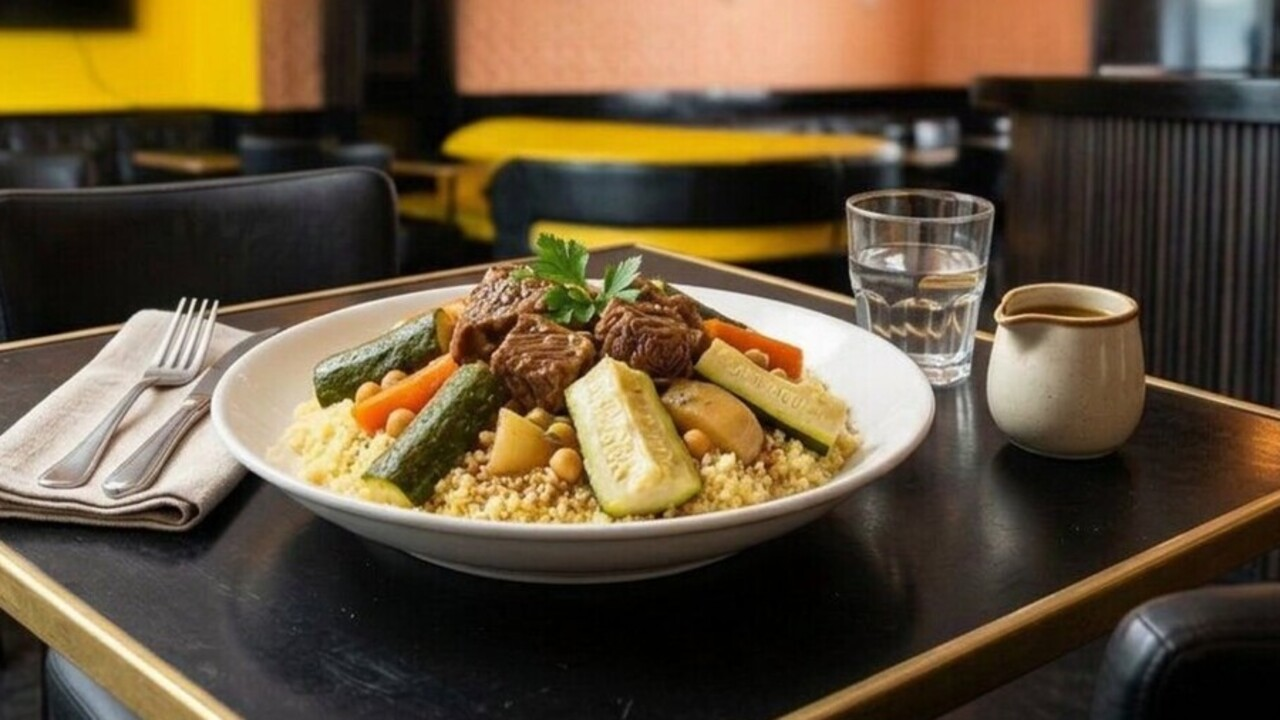
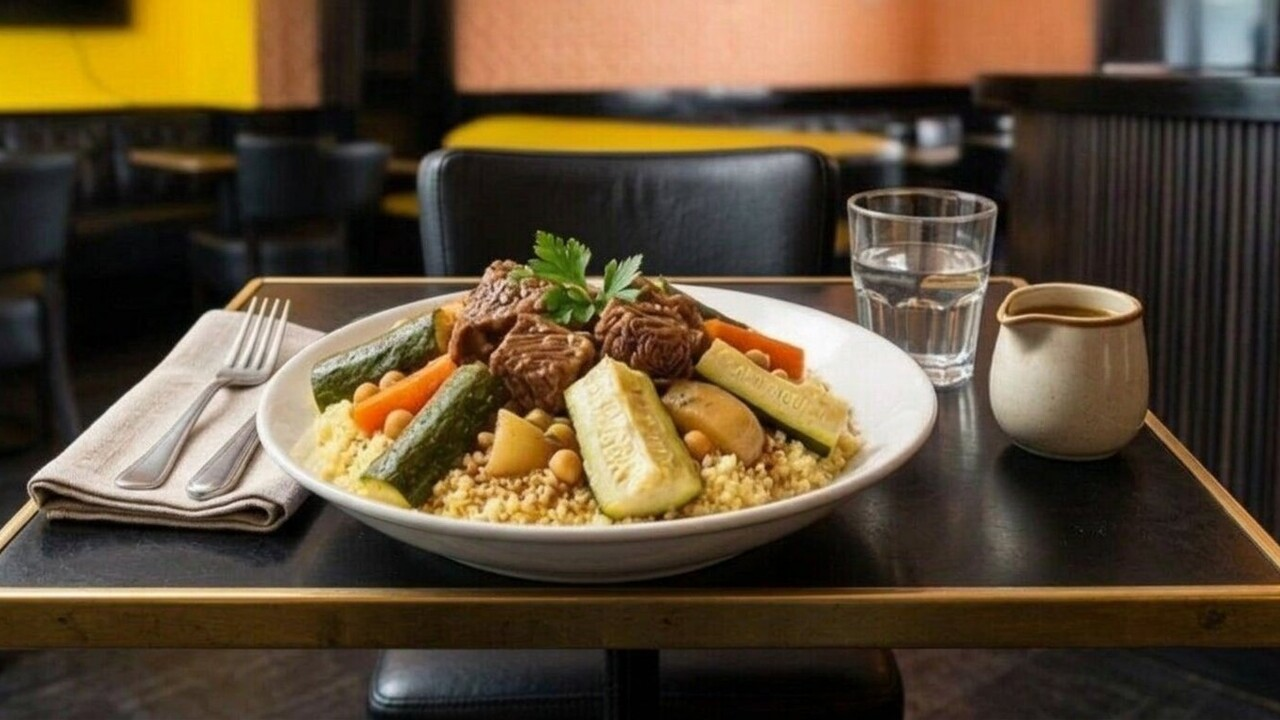
Couscous : petites tables pour deux et gros plans sur une seule assiette

diff --git a/index.html b/index.html
@@ -11354,7 +11354,7 @@ html:not(.carte-doc) .lightbox--food-wide .lightbox__img {
     </div>
     <div class="container">
       <section id="entrees" class="menu-section active"><div class="tab-flow"><article class="panel"><div class="panel__head"><h4 class="panel__title">Entrées</h4></div><div class="food-card-grid food-card-grid--wide"><article class="food-card menu-card-grid__item" data-photo="assets/plats/assiette-de-foie-gras-du-sud-ouest.jpg"><div class="food-card__head"><div class="food-card__lead"><h5>Assiette de foie gras du Sud-Ouest</h5><span class="food-card__note">Pain toasté, confiture d’abricots</span></div><strong>17,90</strong></div></article><article class="food-card menu-card-grid__item" data-photo="assets/plats/oeuf-dur-mayonnaise.jpg"><div class="food-card__head"><div class="food-card__lead"><h5>Œuf dur mayonnaise</h5></div><strong>6,20</strong></div></article><article class="food-card menu-card-grid__item" data-photo="assets/plats/6-escargots-au-roquefort.jpg"><div class="food-card__head"><div class="food-card__lead"><h5>6 Escargots au Roquefort</h5></div><strong>7,90</strong></div></article><article class="food-card menu-card-grid__item" data-photo="assets/plats/assiette-de-saumon-fume.jpg"><div class="food-card__head"><div class="food-card__lead"><h5>Assiette de saumon fumé</h5></div><strong>7,50</strong></div></article><article class="food-card menu-card-grid__item" data-photo="assets/plats/tartare-d-avocat-et-crevettes.jpg"><div class="food-card__head"><div class="food-card__lead"><h5>Tartare d’avocat et crevettes</h5></div><strong>7,90</strong></div></article><article class="food-card menu-card-grid__item" data-photo="assets/plats/oeuf-cocotte-du-moment.jpg"><div class="food-card__head"><div class="food-card__lead"><h5>Œuf cocotte du moment</h5></div><strong>7,90</strong></div></article></div></article><article class="panel"><div class="panel__head"><h4 class="panel__title">Planches &amp; croques</h4></div><div class="food-card-grid food-card-grid--wide"><article class="food-card menu-card-grid__item" data-photo="assets/plats/la-cochonnaille.jpg"><div class="food-card__head"><div class="food-card__lead"><h5>La Cochonnaille</h5></div><strong>17,50</strong></div></article><article class="food-card menu-card-grid__item" data-photo="assets/plats/la-fromagere.jpg"><div class="food-card__head"><div class="food-card__lead"><h5>La Fromagère</h5></div><strong>15,90</strong></div></article><article class="food-card menu-card-grid__item" data-photo="assets/plats/la-paysanne.jpg"><div class="food-card__head"><div class="food-card__lead"><h5>La Paysanne</h5><span class="food-card__note">Cochonnaille et fromagère</span></div><strong>19,90</strong></div></article><article class="food-card menu-card-grid__item" data-photo="assets/plats/croque-monsieur.jpg"><div class="food-card__head"><div class="food-card__lead"><h5>Croque-Monsieur</h5><span class="food-card__note">Sandwich grillé jambon-fromage, sauce béchamel</span><span class="food-card__note">Frites et salade</span></div><strong>11,70</strong></div></article><article class="food-card menu-card-grid__item" data-photo="assets/plats/croque-madame.jpg"><div class="food-card__head"><div class="food-card__lead"><h5>Croque-Madame</h5><span class="food-card__note">Sandwich grillé jambon-fromage, sauce béchamel, œuf au plat</span><span class="food-card__note">Frites et salade</span></div><strong>12,70</strong></div></article></div></article><article class="panel"><div class="panel__head"><h4 class="panel__title">Omelettes</h4></div><div class="food-card-grid food-card-grid--wide"><article class="food-card menu-card-grid__item" data-photo="assets/plats/oeufs-au-plat.jpg"><div class="food-card__head"><div class="food-card__lead"><h5>Œufs au plat</h5><span class="food-card__note">Salade</span></div><strong>9,90</strong></div></article><article class="food-card menu-card-grid__item" data-photo="assets/plats/omelette-nature.jpg"><div class="food-card__head"><div class="food-card__lead"><h5>Omelette nature</h5><span class="food-card__note">Salade</span></div><strong>9,90</strong></div></article><article class="food-card menu-card-grid__item" data-photo="assets/plats/omelette-au-fromage.jpg"><div class="food-card__head"><div class="food-card__lead"><h5>Omelette au fromage</h5><span class="food-card__note">Salade</span></div><strong>10,90</strong></div></article><article class="food-card menu-card-grid__item" data-photo="assets/plats/omelette-au-jambon.jpg"><div class="food-card__head"><div class="food-card__lead"><h5>Omelette au jambon</h5><span class="food-card__note">Salade</span></div><strong>10,90</strong></div></article><article class="food-card menu-card-grid__item" data-photo="assets/plats/omelette-mixte.jpg"><div class="food-card__head"><div class="food-card__lead"><h5>Omelette mixte</h5><span class="food-card__note">Salade</span></div><strong>13,90</strong></div></article><article class="food-card menu-card-grid__item" data-photo="assets/plats/omelette-aux-champignons.jpg"><div class="food-card__head"><div class="food-card__lead"><h5>Omelette aux champignons</h5><span class="food-card__note">Salade</span></div><strong>13,70</strong></div></article></div></article></div></section>
-<section id="plats" class="menu-section"><div class="tab-flow"><article class="panel"><div class="panel__head"><h4 class="panel__title">Plats</h4></div><div class="food-card-grid food-card-grid--wide"><article class="food-card menu-card-grid__item" data-photo="assets/plats/entrecote-190-g.jpg?v=20261024-originaux-restaures"><div class="food-card__head"><div class="food-card__lead"><h5>Entrecôte 190 g</h5><p class="food-card__note">Fleur de sel, sauce au choix</p></div><strong>19,90</strong></div></article><article class="food-card menu-card-grid__item" data-photo="assets/plats/bavette-d-aloyau.jpg?v=20261024-originaux-restaures"><div class="food-card__head"><div class="food-card__lead"><h5>Bavette d’aloyau</h5><p class="food-card__note">Sauce au choix</p></div><strong>17,50</strong></div></article><article class="food-card menu-card-grid__item" data-photo="assets/plats/escalope-de-veau.jpg?v=20261024-originaux-restaures"><div class="food-card__head"><div class="food-card__lead"><h5>Escalope de veau</h5><p class="food-card__note">Sauce champignons, pâtes</p></div><strong>19,90</strong></div></article><article class="food-card menu-card-grid__item" data-photo="assets/plats/cuisse-de-canard-confite.jpg?v=20261024-originaux-restaures"><div class="food-card__head"><div class="food-card__lead"><h5>Cuisse de canard confite</h5></div><strong>19,70</strong></div></article><article class="food-card menu-card-grid__item" data-photo="assets/plats/poisson.jpg?v=20261024-originaux-restaures"><div class="food-card__head"><div class="food-card__lead"><h5>Poisson</h5><p class="food-card__note">Selon l'arrivage</p></div><strong>17,90</strong></div></article><article class="food-card menu-card-grid__item" data-photo="assets/plats/tartare-de-boeuf.jpg?v=20261024-originaux-restaures"><div class="food-card__head"><div class="food-card__lead"><h5>Tartare de bœuf</h5></div><strong>17,80</strong></div></article><article class="food-card menu-card-grid__item" data-photo="assets/plats/cuisse-de-poulet-rotie.jpg?v=20261024-originaux-restaures"><div class="food-card__head"><div class="food-card__lead"><h5>Cuisse de poulet rôtie</h5><p class="food-card__note">Riz basmati</p></div><strong>15,20</strong></div></article></div></article><article class="panel"><div class="panel__head"><h4 class="panel__title">Burgers</h4></div><div class="food-card-grid"><article class="food-card menu-card-grid__item" data-photo="assets/plats/burger-la-colline.jpg?v=20261024-originaux-restaures"><div class="food-card__head"><div class="food-card__lead"><h5>Burger La Colline</h5><p class="food-card__note">Pain brioché, cheddar, steak haché, bacon, oignons caramélisés, salade, tomate, sauce burger.</p></div><strong>17,90</strong></div></article><article class="food-card menu-card-grid__item" data-photo="assets/plats/le-royal-fishburger.jpg?v=20261024-originaux-restaures"><div class="food-card__head"><div class="food-card__lead"><h5>Le Royal Fishburger</h5><p class="food-card__note">Pain brioché, cheddar, poisson pané, légumes grillés, salade, tomate, sauce burger.</p></div><strong>17,70</strong></div></article><article class="food-card menu-card-grid__item" data-photo="assets/plats/burger-chicken-croustillant.jpg?v=20261024-originaux-restaures"><div class="food-card__head"><div class="food-card__lead"><h5>Burger Chicken Croustillant</h5><p class="food-card__note">Pain brioché, cheddar, escalope de poulet pané croustillant, oignons caramélisés, salade, tomate, sauce burger.</p></div><strong>17,90</strong></div></article><article class="food-card menu-card-grid__item" data-photo="assets/plats/burger-vegetarien.jpg?v=20261024-originaux-restaures"><div class="food-card__head"><div class="food-card__lead"><h5>Burger Végétarien</h5><p class="food-card__note">Pain brioché, cheddar, steak végétarien, légumes grillés, salade, tomate, sauce burger.</p></div><strong>17,70</strong></div></article></div></article><article class="panel"><div class="panel__head"><h4 class="panel__title">Salades</h4></div><div class="food-card-grid"><article class="food-card menu-card-grid__item" data-photo="assets/plats/la-colline.jpg?v=20261024-originaux-restaures"><div class="food-card__head"><div class="food-card__lead"><h5>La Colline</h5><p class="food-card__note">Salade verte, tomate, escalope de poulet pané, œuf mimosa, croûton, toast de chèvre.</p></div><strong>16,90</strong></div></article><article class="food-card menu-card-grid__item" data-photo="assets/plats/chevre-chaud.jpg?v=20261024-originaux-restaures"><div class="food-card__head"><div class="food-card__lead"><h5>Chèvre Chaud</h5><p class="food-card__note">Salade verte, tomate, jambon sec, toast de cabécou, noix, miel.</p></div><strong>16,50</strong></div></article><article class="food-card menu-card-grid__item" data-photo="assets/plats/vegetarienne.jpg?v=20261024-originaux-restaures"><div class="food-card__head"><div class="food-card__lead"><h5>Végétarienne</h5><p class="food-card__note">Salade verte, tomate, concombre, haricots verts, légumes grillés, avocat.</p></div><strong>12,60</strong></div></article><article class="food-card menu-card-grid__item" data-photo="assets/plats/nordique.jpg?v=20261024-originaux-restaures"><div class="food-card__head"><div class="food-card__lead"><h5>Nordique</h5><p class="food-card__note">Salade verte, saumon fumé, crevettes, avocat, concombre, tomate, feta, croûtons.</p></div><strong>17,20</strong></div></article></div></article><article class="panel"><div class="panel__head"><h4 class="panel__title">Pâtes</h4></div><div class="food-card-grid"><article class="food-card menu-card-grid__item" data-photo="assets/plats/tagliatelles-a-la-carbonara.jpg?v=20261024-originaux-restaures"><div class="food-card__head"><div class="food-card__lead"><h5>Tagliatelles à la carbonara</h5></div><strong>15,90</strong></div></article><article class="food-card menu-card-grid__item" data-photo="assets/plats/tagliatelles-au-saumon.jpg?v=20261024-saumon-morceaux"><div class="food-card__head"><div class="food-card__lead"><h5>Tagliatelles au saumon</h5></div><strong>16,20</strong></div></article><article class="food-card menu-card-grid__item" data-photo="assets/plats/penne-au-poulet-et-champignons.jpg?v=20261024-originaux-restaures"><div class="food-card__head"><div class="food-card__lead"><h5>Penne au poulet et champignons</h5></div><strong>16,50</strong></div></article></div></article><article class="panel panel--couscous"><div class="panel__head"><h4 class="panel__title">Couscous</h4><p class="panel__subtitle">À déguster chaque vendredi et samedi (midi et soir).</p></div><div class="food-card-grid"><article class="food-card menu-card-grid__item" data-photo="assets/plats/couscous-poulet.jpg?v=20261024-couscous-deux-zoom"><div class="food-card__head"><div class="food-card__lead"><h5>Poulet</h5><p class="food-card__note">Semoule fine, légumes mijotés et bouillon maison.</p></div><strong>15,60</strong></div></article><article class="food-card menu-card-grid__item" data-photo="assets/plats/couscous-merguez.jpg?v=20261024-couscous-deux-zoom"><div class="food-card__head"><div class="food-card__lead"><h5>Merguez</h5><p class="food-card__note">Semoule fine, légumes mijotés et bouillon maison.</p></div><strong>15,60</strong></div></article><article class="food-card menu-card-grid__item" data-photo="assets/plats/couscous-agneau.jpg?v=20261024-couscous-deux-zoom"><div class="food-card__head"><div class="food-card__lead"><h5>Brochette d’agneau</h5><p class="food-card__note">Semoule fine, légumes mijotés et bouillon maison.</p></div><strong>16,50</strong></div></article><article class="food-card menu-card-grid__item" data-photo="assets/plats/couscous-boeuf.jpg?v=20261024-couscous-deux-zoom"><div class="food-card__head"><div class="food-card__lead"><h5>Bœuf</h5><p class="food-card__note">Semoule fine, légumes mijotés et bouillon maison.</p></div><strong>16,50</strong></div></article><article class="food-card menu-card-grid__item" data-photo="assets/plats/couscous-vegetarien.jpg?v=20261024-couscous-deux-zoom"><div class="food-card__head"><div class="food-card__lead"><h5>Végétarien</h5><p class="food-card__note">Semoule fine, légumes mijotés et bouillon maison.</p></div><strong>13,50</strong></div></article><article class="food-card menu-card-grid__item" data-photo="assets/plats/couscous-trois-viandes.jpg?v=20261024-couscous-deux-zoom"><div class="food-card__head"><div class="food-card__lead"><h5>La Colline Royale</h5><p class="food-card__note">Poulet, agneau et bœuf. Semoule fine, légumes mijotés et bouillon maison.</p></div><strong>22,90</strong></div></article></div></article><article class="panel panel--accent"><div class="accent-band"><img class="accent-band__motif" src="assets/menus/motif-80a.png" alt="" aria-hidden="true" loading="lazy" width="80" height="80"><div class="accent-band__title"><strong>Assiette de frites</strong><span>4,90</span></div><p>Accompagnement : frites, haricots verts, pâtes</p><p class="accent-band__sauce">Sauce au choix : poivre · champignons · roquefort — supplément sauce 2,00</p></div></article></div></section>
+<section id="plats" class="menu-section"><div class="tab-flow"><article class="panel"><div class="panel__head"><h4 class="panel__title">Plats</h4></div><div class="food-card-grid food-card-grid--wide"><article class="food-card menu-card-grid__item" data-photo="assets/plats/entrecote-190-g.jpg?v=20261024-originaux-restaures"><div class="food-card__head"><div class="food-card__lead"><h5>Entrecôte 190 g</h5><p class="food-card__note">Fleur de sel, sauce au choix</p></div><strong>19,90</strong></div></article><article class="food-card menu-card-grid__item" data-photo="assets/plats/bavette-d-aloyau.jpg?v=20261024-originaux-restaures"><div class="food-card__head"><div class="food-card__lead"><h5>Bavette d’aloyau</h5><p class="food-card__note">Sauce au choix</p></div><strong>17,50</strong></div></article><article class="food-card menu-card-grid__item" data-photo="assets/plats/escalope-de-veau.jpg?v=20261024-originaux-restaures"><div class="food-card__head"><div class="food-card__lead"><h5>Escalope de veau</h5><p class="food-card__note">Sauce champignons, pâtes</p></div><strong>19,90</strong></div></article><article class="food-card menu-card-grid__item" data-photo="assets/plats/cuisse-de-canard-confite.jpg?v=20261024-originaux-restaures"><div class="food-card__head"><div class="food-card__lead"><h5>Cuisse de canard confite</h5></div><strong>19,70</strong></div></article><article class="food-card menu-card-grid__item" data-photo="assets/plats/poisson.jpg?v=20261024-originaux-restaures"><div class="food-card__head"><div class="food-card__lead"><h5>Poisson</h5><p class="food-card__note">Selon l'arrivage</p></div><strong>17,90</strong></div></article><article class="food-card menu-card-grid__item" data-photo="assets/plats/tartare-de-boeuf.jpg?v=20261024-originaux-restaures"><div class="food-card__head"><div class="food-card__lead"><h5>Tartare de bœuf</h5></div><strong>17,80</strong></div></article><article class="food-card menu-card-grid__item" data-photo="assets/plats/cuisse-de-poulet-rotie.jpg?v=20261024-originaux-restaures"><div class="food-card__head"><div class="food-card__lead"><h5>Cuisse de poulet rôtie</h5><p class="food-card__note">Riz basmati</p></div><strong>15,20</strong></div></article></div></article><article class="panel"><div class="panel__head"><h4 class="panel__title">Burgers</h4></div><div class="food-card-grid"><article class="food-card menu-card-grid__item" data-photo="assets/plats/burger-la-colline.jpg?v=20261024-originaux-restaures"><div class="food-card__head"><div class="food-card__lead"><h5>Burger La Colline</h5><p class="food-card__note">Pain brioché, cheddar, steak haché, bacon, oignons caramélisés, salade, tomate, sauce burger.</p></div><strong>17,90</strong></div></article><article class="food-card menu-card-grid__item" data-photo="assets/plats/le-royal-fishburger.jpg?v=20261024-originaux-restaures"><div class="food-card__head"><div class="food-card__lead"><h5>Le Royal Fishburger</h5><p class="food-card__note">Pain brioché, cheddar, poisson pané, légumes grillés, salade, tomate, sauce burger.</p></div><strong>17,70</strong></div></article><article class="food-card menu-card-grid__item" data-photo="assets/plats/burger-chicken-croustillant.jpg?v=20261024-originaux-restaures"><div class="food-card__head"><div class="food-card__lead"><h5>Burger Chicken Croustillant</h5><p class="food-card__note">Pain brioché, cheddar, escalope de poulet pané croustillant, oignons caramélisés, salade, tomate, sauce burger.</p></div><strong>17,90</strong></div></article><article class="food-card menu-card-grid__item" data-photo="assets/plats/burger-vegetarien.jpg?v=20261024-originaux-restaures"><div class="food-card__head"><div class="food-card__lead"><h5>Burger Végétarien</h5><p class="food-card__note">Pain brioché, cheddar, steak végétarien, légumes grillés, salade, tomate, sauce burger.</p></div><strong>17,70</strong></div></article></div></article><article class="panel"><div class="panel__head"><h4 class="panel__title">Salades</h4></div><div class="food-card-grid"><article class="food-card menu-card-grid__item" data-photo="assets/plats/la-colline.jpg?v=20261024-originaux-restaures"><div class="food-card__head"><div class="food-card__lead"><h5>La Colline</h5><p class="food-card__note">Salade verte, tomate, escalope de poulet pané, œuf mimosa, croûton, toast de chèvre.</p></div><strong>16,90</strong></div></article><article class="food-card menu-card-grid__item" data-photo="assets/plats/chevre-chaud.jpg?v=20261024-originaux-restaures"><div class="food-card__head"><div class="food-card__lead"><h5>Chèvre Chaud</h5><p class="food-card__note">Salade verte, tomate, jambon sec, toast de cabécou, noix, miel.</p></div><strong>16,50</strong></div></article><article class="food-card menu-card-grid__item" data-photo="assets/plats/vegetarienne.jpg?v=20261024-originaux-restaures"><div class="food-card__head"><div class="food-card__lead"><h5>Végétarienne</h5><p class="food-card__note">Salade verte, tomate, concombre, haricots verts, légumes grillés, avocat.</p></div><strong>12,60</strong></div></article><article class="food-card menu-card-grid__item" data-photo="assets/plats/nordique.jpg?v=20261024-originaux-restaures"><div class="food-card__head"><div class="food-card__lead"><h5>Nordique</h5><p class="food-card__note">Salade verte, saumon fumé, crevettes, avocat, concombre, tomate, feta, croûtons.</p></div><strong>17,20</strong></div></article></div></article><article class="panel"><div class="panel__head"><h4 class="panel__title">Pâtes</h4></div><div class="food-card-grid"><article class="food-card menu-card-grid__item" data-photo="assets/plats/tagliatelles-a-la-carbonara.jpg?v=20261024-originaux-restaures"><div class="food-card__head"><div class="food-card__lead"><h5>Tagliatelles à la carbonara</h5></div><strong>15,90</strong></div></article><article class="food-card menu-card-grid__item" data-photo="assets/plats/tagliatelles-au-saumon.jpg?v=20261024-saumon-morceaux"><div class="food-card__head"><div class="food-card__lead"><h5>Tagliatelles au saumon</h5></div><strong>16,20</strong></div></article><article class="food-card menu-card-grid__item" data-photo="assets/plats/penne-au-poulet-et-champignons.jpg?v=20261024-originaux-restaures"><div class="food-card__head"><div class="food-card__lead"><h5>Penne au poulet et champignons</h5></div><strong>16,50</strong></div></article></div></article><article class="panel panel--couscous"><div class="panel__head"><h4 class="panel__title">Couscous</h4><p class="panel__subtitle">À déguster chaque vendredi et samedi (midi et soir).</p></div><div class="food-card-grid"><article class="food-card menu-card-grid__item" data-photo="assets/plats/couscous-poulet.jpg?v=20261024-couscous-table-compacte"><div class="food-card__head"><div class="food-card__lead"><h5>Poulet</h5><p class="food-card__note">Semoule fine, légumes mijotés et bouillon maison.</p></div><strong>15,60</strong></div></article><article class="food-card menu-card-grid__item" data-photo="assets/plats/couscous-merguez.jpg?v=20261024-couscous-table-compacte"><div class="food-card__head"><div class="food-card__lead"><h5>Merguez</h5><p class="food-card__note">Semoule fine, légumes mijotés et bouillon maison.</p></div><strong>15,60</strong></div></article><article class="food-card menu-card-grid__item" data-photo="assets/plats/couscous-agneau.jpg?v=20261024-couscous-table-compacte"><div class="food-card__head"><div class="food-card__lead"><h5>Brochette d’agneau</h5><p class="food-card__note">Semoule fine, légumes mijotés et bouillon maison.</p></div><strong>16,50</strong></div></article><article class="food-card menu-card-grid__item" data-photo="assets/plats/couscous-boeuf.jpg?v=20261024-couscous-table-compacte"><div class="food-card__head"><div class="food-card__lead"><h5>Bœuf</h5><p class="food-card__note">Semoule fine, légumes mijotés et bouillon maison.</p></div><strong>16,50</strong></div></article><article class="food-card menu-card-grid__item" data-photo="assets/plats/couscous-vegetarien.jpg?v=20261024-couscous-table-compacte"><div class="food-card__head"><div class="food-card__lead"><h5>Végétarien</h5><p class="food-card__note">Semoule fine, légumes mijotés et bouillon maison.</p></div><strong>13,50</strong></div></article><article class="food-card menu-card-grid__item" data-photo="assets/plats/couscous-trois-viandes.jpg?v=20261024-couscous-table-compacte"><div class="food-card__head"><div class="food-card__lead"><h5>La Colline Royale</h5><p class="food-card__note">Poulet, agneau et bœuf. Semoule fine, légumes mijotés et bouillon maison.</p></div><strong>22,90</strong></div></article></div></article><article class="panel panel--accent"><div class="accent-band"><img class="accent-band__motif" src="assets/menus/motif-80a.png" alt="" aria-hidden="true" loading="lazy" width="80" height="80"><div class="accent-band__title"><strong>Assiette de frites</strong><span>4,90</span></div><p>Accompagnement : frites, haricots verts, pâtes</p><p class="accent-band__sauce">Sauce au choix : poivre · champignons · roquefort — supplément sauce 2,00</p></div></article></div></section>
 <section id="menus" class="menu-section"><div class="tab-flow"><article class="panel"><div class="panel__head"><h4 class="panel__title">Formules</h4></div>
 <div class="fm" data-ref="Formules.pdf">
   <!-- ============ Formule « duo » : entrée + plat, ou plat + dessert ============ -->

diff --git a/tools/PHOTO_STYLE.md b/tools/PHOTO_STYLE.md
@@ -1,5 +1,15 @@
 # Ton photographique du site
 
+### Précision du propriétaire : petite table pour DEUX + gros plan couscous
+Il ne suffit pas de recadrer une grande table : les6photos de couscous ont
+été retravaillées pour un petit plateau carré de bistrot (cible60×60cm),
+noir à liseré doré, une seule assiette, cadrage rapproché sur la nourriture.
+Deux places seulement : client au point de vue de la photo et chaise opposée,
+pas de service supplémentaire. Courgettes en morceaux, lumière chaude et
+bokeh conservés. Ne pas revenir aux grandes tables ni modifier les autres
+photos. Le nom du couscous signature reste La Colline Royale.
+
+
 ### Dernière consigne couscous : table pour deux et zoom sur une assiette
 Le propriétaire a précisé qu’il souhaite une table de bistrot pour deux
 personnes, avec UNE seule assiette de couscous, cadrée de plus près.
